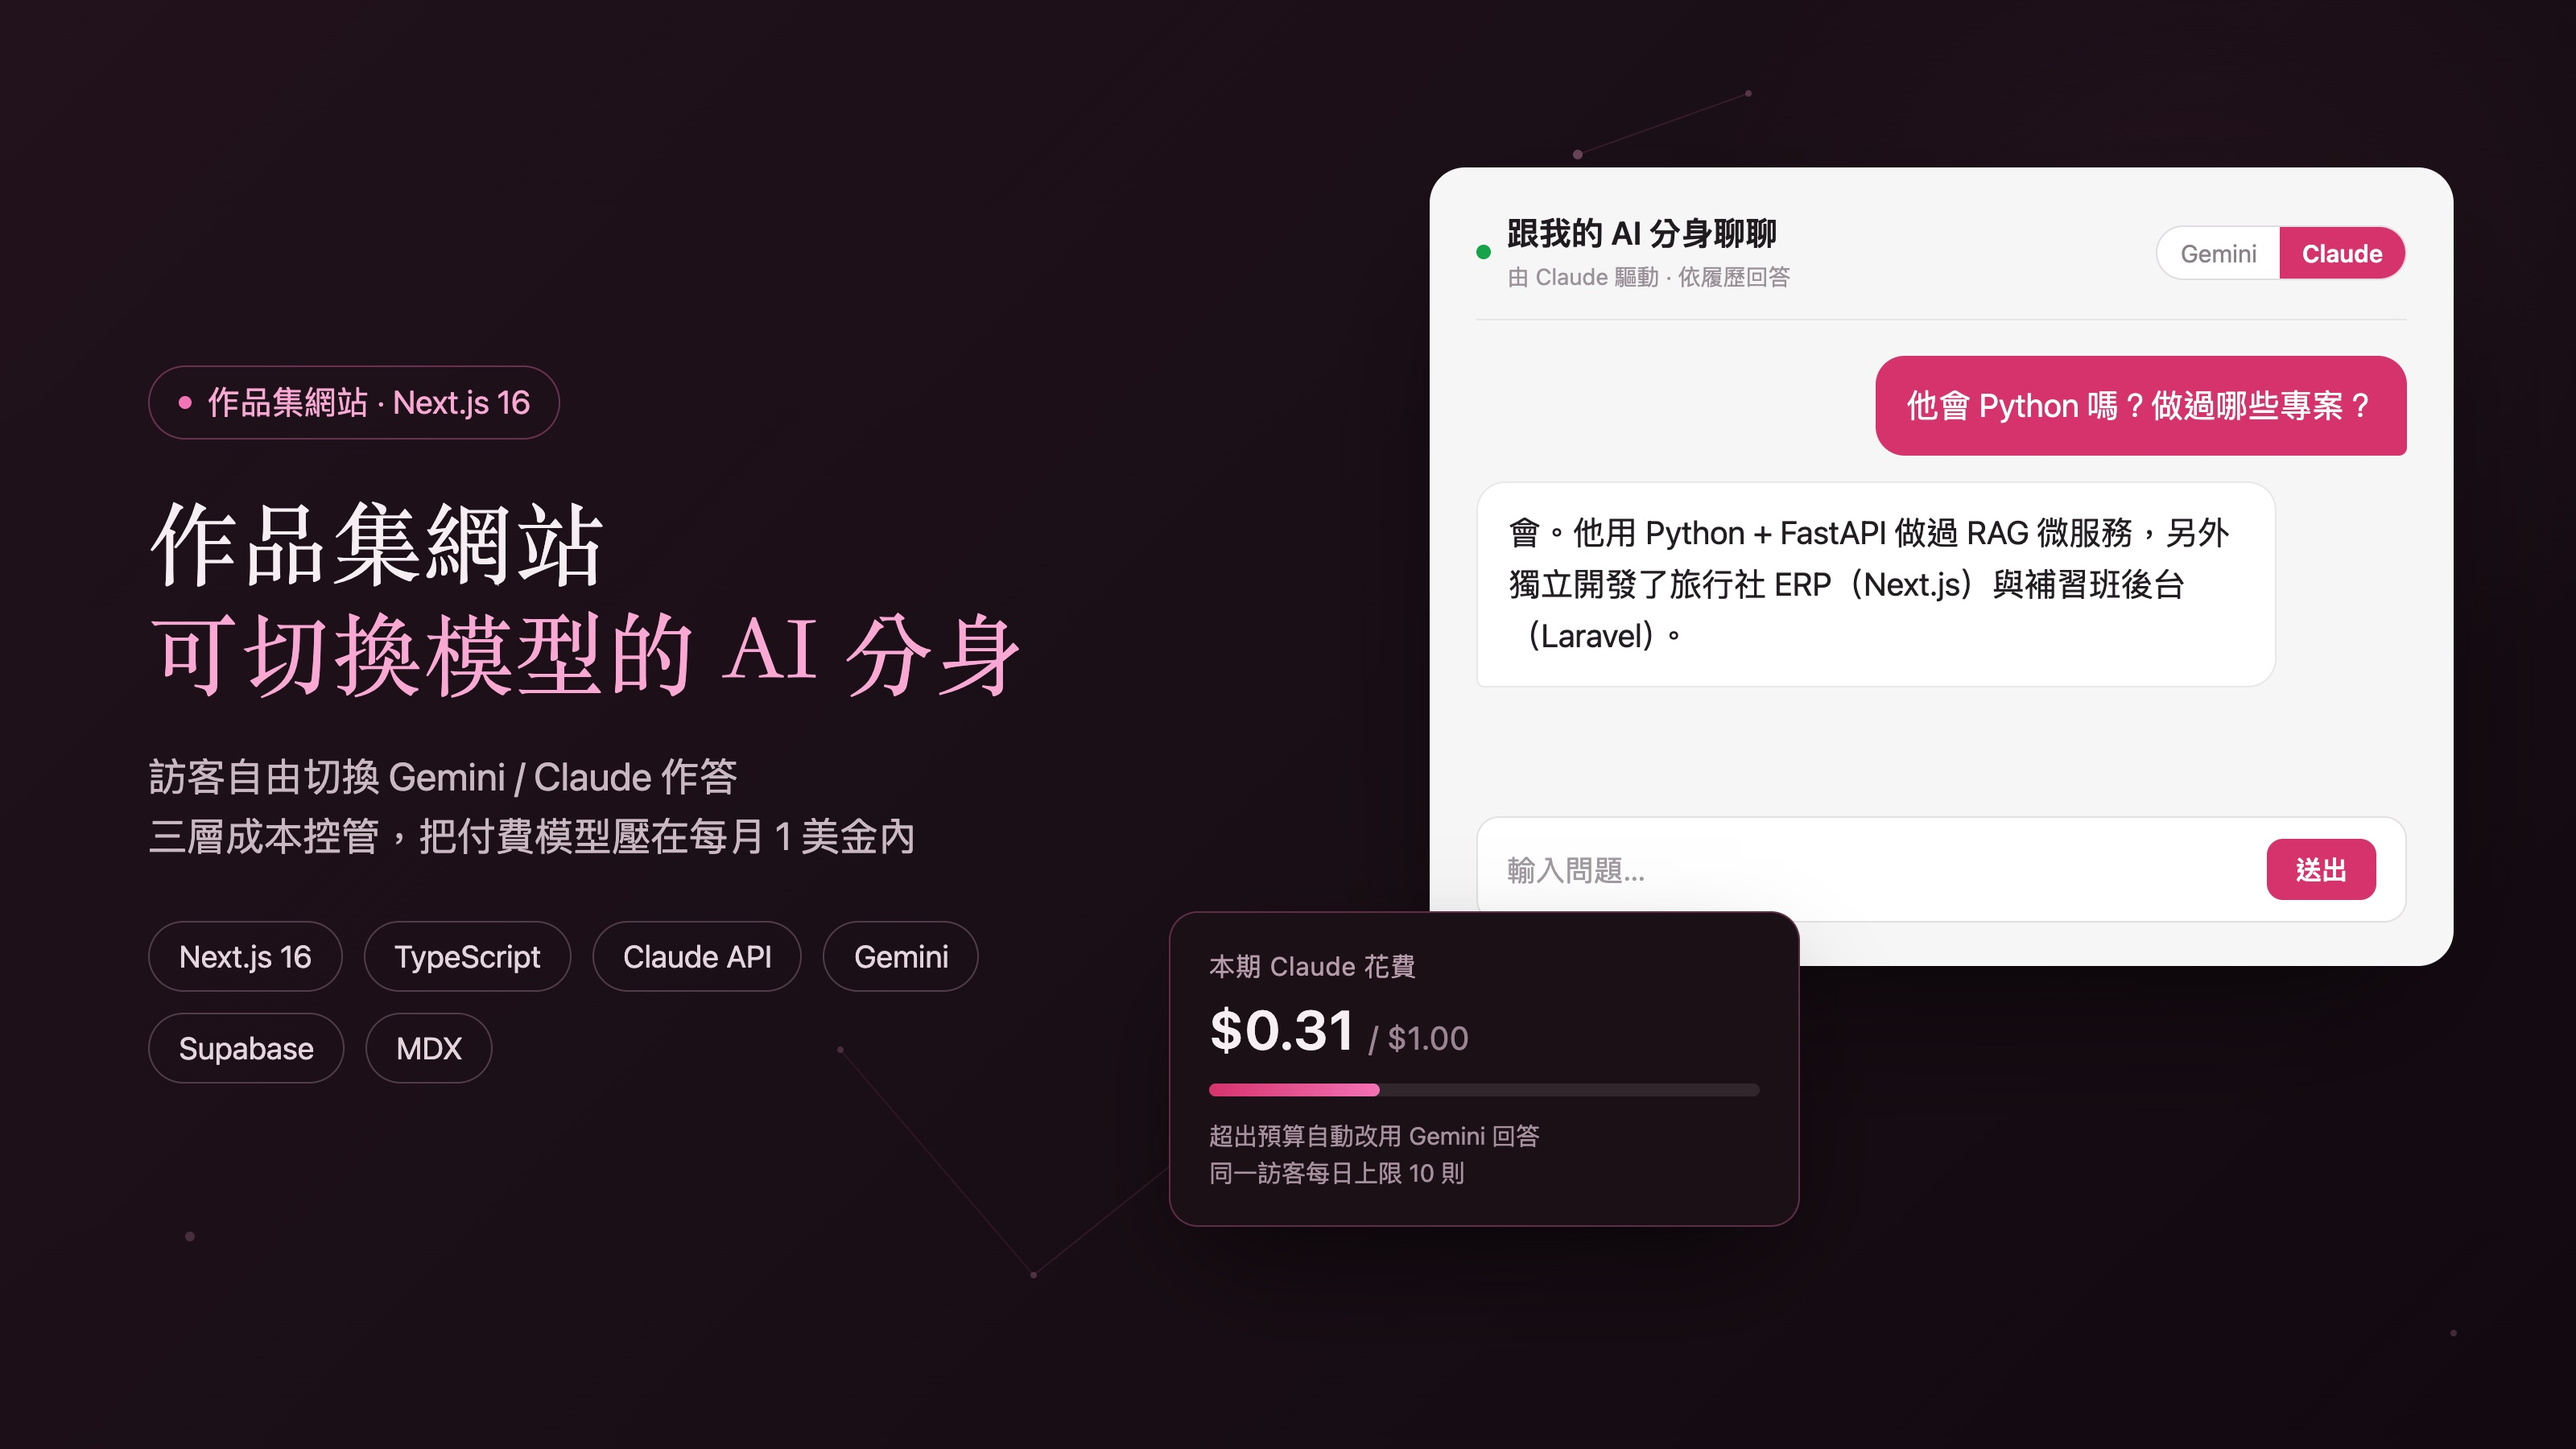
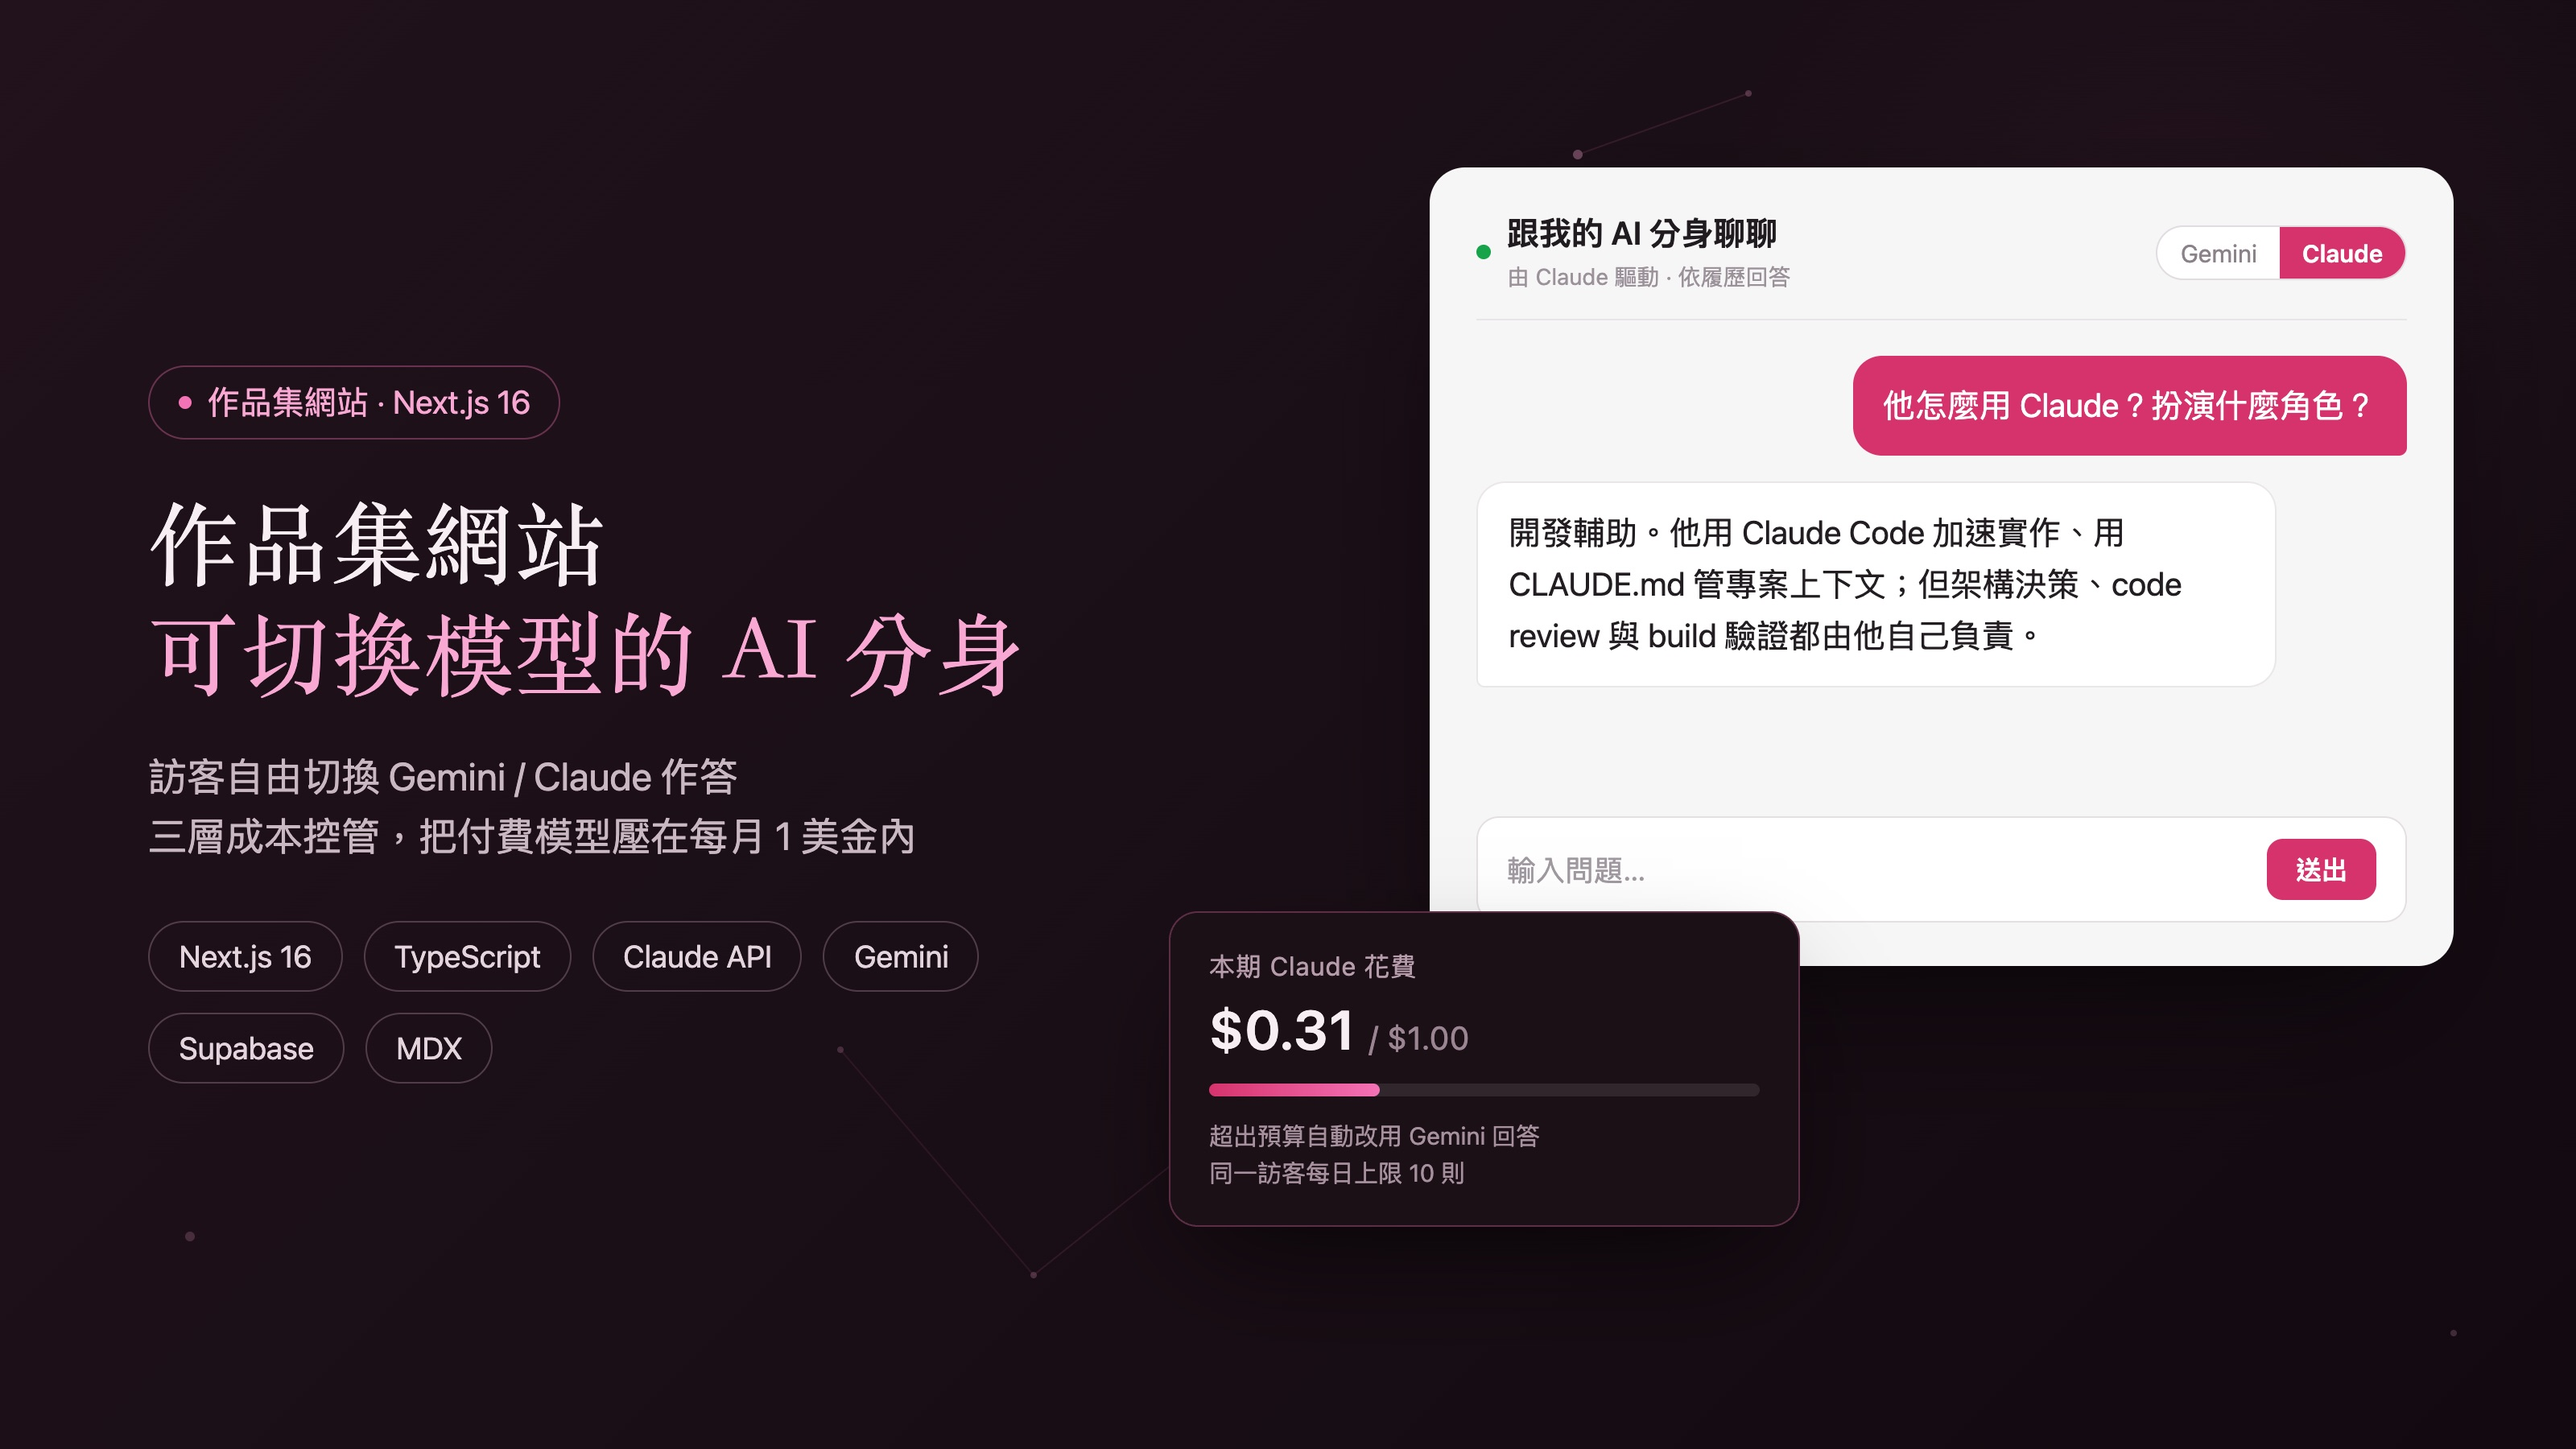
封面對話換成「他怎麼用 Claude？扮演什麼角色？」
原本跟 RAG 那張封面同題（他會 Python 嗎），並排在作品列表會撞題。
換成 Claude 的角色定位，同時把「AI 是工具、架構決策與交付責任在我」講出來。

Changed region(s): [[0.5938, 0.3422, 0.875, 0.4667], [0.7188, 0.2489, 0.9062, 0.3111]]

diff --git a/tools/covers/cover-portfolio.html b/tools/covers/cover-portfolio.html
@@ -124,8 +124,8 @@
       <div class="toggle"><span>Gemini</span><span class="on">Claude</span></div>
     </div>
     <div class="stream">
-      <div class="msg me">他會 Python 嗎？做過哪些專案？</div>
-      <div class="msg ai">會。他用 Python + FastAPI 做過 RAG 微服務，另外獨立開發了旅行社 ERP（Next.js）與補習班後台（Laravel）。</div>
+      <div class="msg me">他怎麼用 Claude？扮演什麼角色？</div>
+      <div class="msg ai">開發輔助。他用 Claude Code 加速實作、用 CLAUDE.md 管專案上下文；但架構決策、code review 與 build 驗證都由他自己負責。</div>
     </div>
     <div class="bar">輸入問題…<span class="send">送出</span></div>
   </div>
